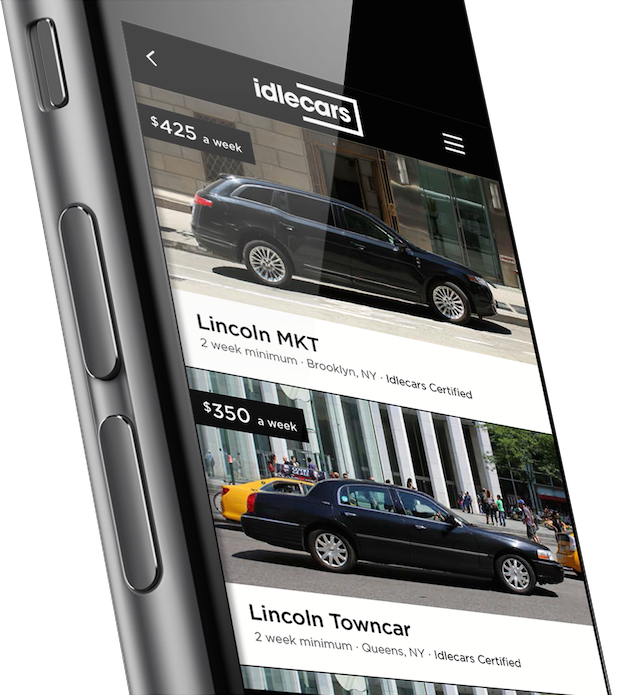
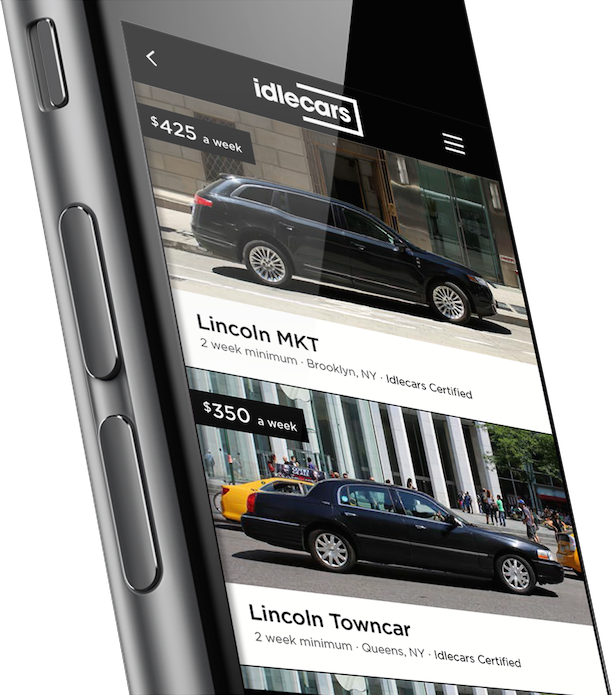
phone section

Changed region(s): [[0.0621, 0.0, 1.0, 1.0]]

diff --git a/idlecars/static/css/landing_page.css b/idlecars/static/css/landing_page.css
@@ -1,8 +1,8 @@
-.flex, .flex-center, .landing-page .hero-asset .hero-top, .landing-page .phone .phone-background, .landing-page .tutorial p:first-of-type, .flex-center-verticle, .landing-page .tutorial .container, .flex-center-horizontal, .flex-space-between, .landing-page .tutorial .segments {
+.flex, .flex-center, .landing-page .hero-asset .hero-top, .landing-page .phone, .landing-page .tutorial p:first-of-type, .flex-center-verticle, .landing-page .tutorial .container, .flex-center-horizontal, .flex-space-between, .landing-page .tutorial .segments {
   display: flex;
   display: -webkit-flex; }
 
-.flex-cell {
+.flex-cell, .landing-page .phone .phone-image, .landing-page .phone .container {
   flex: 1;
   -ms-flex: 1;
   -webkit-flex: 1; }
@@ -12,11 +12,11 @@
   -ms-flex: auto;
   -webkit-flex: auto; }
 
-.flex-center, .landing-page .hero-asset .hero-top, .landing-page .phone .phone-background, .landing-page .tutorial p:first-of-type, .flex-center-verticle, .landing-page .tutorial .container, .landing-page .manhattan .container {
+.flex-center, .landing-page .hero-asset .hero-top, .landing-page .phone, .landing-page .tutorial p:first-of-type, .flex-center-verticle, .landing-page .tutorial .container, .landing-page .manhattan .container {
   align-items: center;
   -webkit-align-items: center; }
 
-.flex-center, .landing-page .hero-asset .hero-top, .landing-page .phone .phone-background, .landing-page .tutorial p:first-of-type, .flex-center-horizontal {
+.flex-center, .landing-page .hero-asset .hero-top, .landing-page .phone, .landing-page .tutorial p:first-of-type, .flex-center-horizontal {
   justify-content: center;
   -webkit-justify-content: center; }
 
@@ -54,16 +54,18 @@
   .landing-page .phone {
     background: #f2f2f2;
     height: 100%; }
-    .landing-page .phone .phone-background {
-      background: url(../img/phone.png) no-repeat transparent;
-      background-size: auto 500px;
-      background-position: 20% center;
+    .landing-page .phone .phone-image {
+      text-align: center; }
+    .landing-page .phone img {
+      display: block;
       height: 500px; }
     .landing-page .phone .content {
-      position: relative;
-      left: 50%;
       color: black;
       max-width: 380px; }
+      .landing-page .phone .content p:first-of-type {
+        margin: 36px 0; }
+    .landing-page .phone a {
+      color: #008aff; }
   .landing-page .phone-content .container {
     background: #e3e3e3;
     color: black; }
@@ -122,12 +124,10 @@
       max-width: 400px; }
 
 @media (max-width: 875px) {
-  .landing-page .phone .phone-background {
-    background-position: center;
-    background-size: auto 370px;
+  .landing-page .phone, .landing-page .phone img {
     height: 370px; }
-  .landing-page .phone p:first-of-type {
-    margin-top: 20px; }
+    .landing-page .phone p:first-of-type, .landing-page .phone img p:first-of-type {
+      margin-top: 20px; }
   .landing-page .select {
     background-size: auto 300px;
     background-position: center;

diff --git a/idlecars/static/sass/landing_page.sass b/idlecars/static/sass/landing_page.sass
@@ -1,11 +1,13 @@
 @import flex
 
+
 .landing-page
   margin-top: 3rem
 
   .invisible
     margin-top: -3rem
     height: 3rem
+
 
   .hero-asset
     background: url(../img/hero_bottom.png) no-repeat #fff
@@ -39,22 +41,32 @@
       .button
         width: 15rem
 
+
   .phone
+    @extend .flex-center
     background: #f2f2f2
     height: 100%
 
-    .phone-background
-      @extend .flex-center
-      background: url(../img/phone.png) no-repeat transparent
-      background-size: auto 500px
-      background-position: 20% center
+    .phone-image
+      text-align: center
+
+    img
+      display: block
       height: 500px
 
+
+    .phone-image, .container
+      @extend .flex-cell
+
     .content
-      position: relative
-      left: 50%
       color: black
       max-width: 380px
+
+      p:first-of-type
+        margin: 36px 0
+
+    a
+      color: #008aff
 
   .phone-content
     .container
@@ -62,6 +74,7 @@
       color: black
     a
       color: #008aff
+
 
   .tutorial
     background: white
@@ -105,6 +118,7 @@
         max-height: 100px
         max-width: 96px
 
+
   .select
     background: url(../img/selectthebest.jpg) no-repeat #070707
     background-position: calc(50% + 336px) center
@@ -120,6 +134,7 @@
   .select-content
     p:first-of-type
       margin: 20px 0
+
 
   .manhattan
     background: url(../img/manhattan.jpg) no-repeat white
@@ -140,21 +155,22 @@
     img
       max-width: 400px
 
+
+
 @media (max-width: 875px)
   .landing-page
-    .phone
-      .phone-background
-        background-position: center
-        background-size: auto 370px
-        height: 370px
+    .phone, .phone img
+      height: 370px
 
       p:first-of-type
         margin-top: 20px
+
 
     .select
       background-size: auto 300px
       background-position: center
       height: 300px
+
 
     .tutorial
       .container
@@ -175,6 +191,7 @@
 
         &:last-of-type
           margin-bottom: 0
+
 
     .manhattan
       height: 100%

diff --git a/idlecars/static/sass/base.sass b/idlecars/static/sass/base.sass
@@ -48,7 +48,7 @@ section
   display: none
 
 @media (max-width: 875px)
-  .desktop
+  .desktop, #desktop
     display: none
 
   .mobile

diff --git a/idlecars/static/sass/flex.sass b/idlecars/static/sass/flex.sass
@@ -32,6 +32,7 @@
   flex-wrap: wrap
   -webkit-flex-wrap: wrap
 
+
 .flex
   @extend %flex
 
